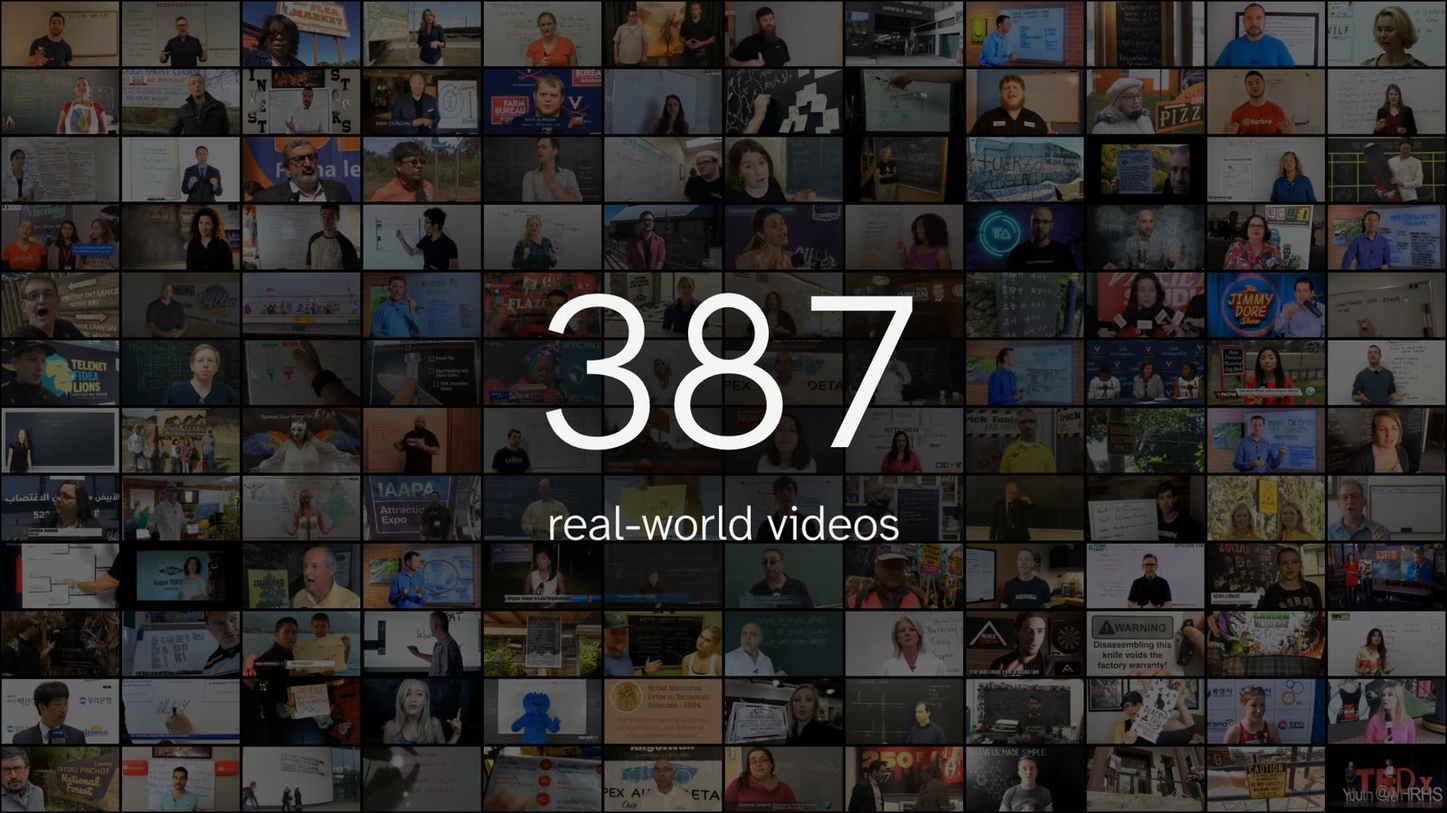
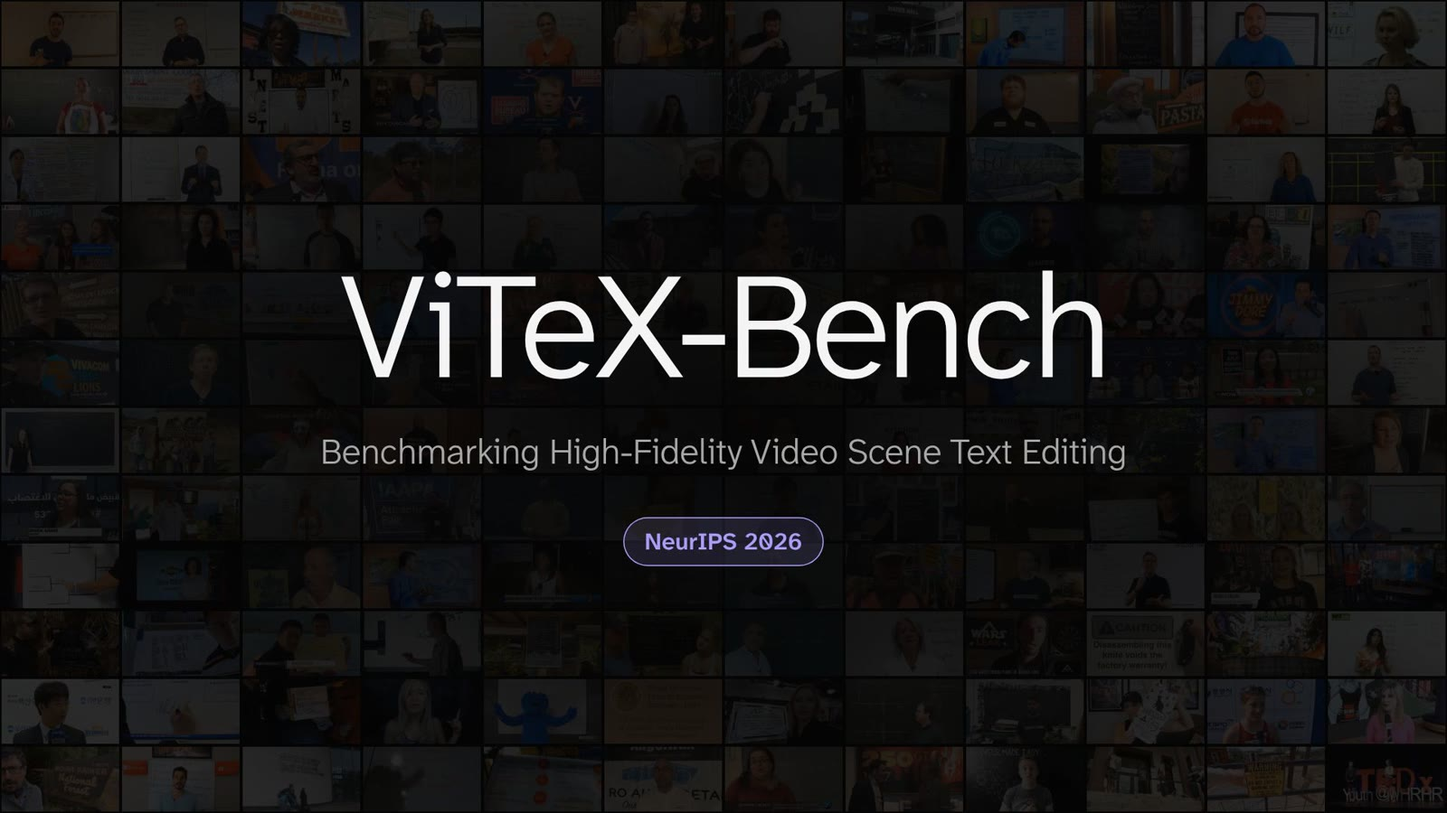
Title-card poster for the promo; share panel for US and Chinese platforms
- Promo poster is now the video's opening title card.
- Share button in the header (and in Cite) opens one panel: copy link;
  X, LinkedIn, Facebook, Reddit, Bluesky, Threads, WhatsApp, Telegram,
  Hacker News, Email; WeChat (QR code), Weibo, QQ, Douban via their
  share endpoints; Xiaohongshu, Zhihu, Bilibili copy a title and link.
  Popover on desktop, bottom sheet on phones; system share sheet where
  available. Monochrome Simple Icons (CC0) with accent hover.
- Social preview, DESIGN.md and README updated.

diff --git a/index.html b/index.html
@@ -40,7 +40,7 @@
   })();
 </script>
 <link rel="preload" href="static/fonts/atkinson-hyperlegible-next-latin.woff2" as="font" type="font/woff2" crossorigin>
-<link rel="stylesheet" href="static/css/site.css?v=8">
+<link rel="stylesheet" href="static/css/site.css?v=9">
 </head>
 <body>
 <a class="skip" href="#main">Skip to content</a>
@@ -56,12 +56,54 @@
       <a href="#cite">Cite</a>
     </nav>
     <a class="top__lb" href="https://vitex-bench.github.io/ViTeX-Bench-Leaderboard/">Leaderboard<svg class="icon" viewBox="0 0 24 24" aria-hidden="true"><path d="M8 16 16 8M9.5 8H16v6.5"/></svg></a>
+    <button class="icon-btn" id="share-btn" type="button" aria-label="Share this page" aria-haspopup="dialog" aria-expanded="false" aria-controls="share"><svg class="icon" viewBox="0 0 24 24" aria-hidden="true"><path d="M12 14.5v-11M8 7.5l4-4 4 4"/><path d="M8 10.5H6.5a1.5 1.5 0 0 0-1.5 1.5v7a1.5 1.5 0 0 0 1.5 1.5h11a1.5 1.5 0 0 0 1.5-1.5v-7a1.5 1.5 0 0 0-1.5-1.5H16"/></svg></button>
     <button class="icon-btn" id="theme-toggle" type="button" aria-label="Switch theme">
       <svg class="icon icon--sun" viewBox="0 0 24 24" aria-hidden="true"><circle cx="12" cy="12" r="4"/><path d="M12 2.5v2.5M12 19v2.5M2.5 12H5M19 12h2.5M5.3 5.3l1.8 1.8M16.9 16.9l1.8 1.8M5.3 18.7l1.8-1.8M16.9 7.1l1.8-1.8"/></svg>
       <svg class="icon icon--moon" viewBox="0 0 24 24" aria-hidden="true"><path d="M19.5 14.6A8 8 0 0 1 9.4 4.5a8 8 0 1 0 10.1 10.1Z"/></svg>
     </button>
   </div>
 </header>
+<div class="share-scrim" id="share-scrim" hidden></div>
+<div class="share" id="share" role="dialog" aria-labelledby="share-title" hidden>
+  <div class="share__head">
+    <p class="share__title" id="share-title">Share ViTeX-Bench</p>
+    <button class="share__close" type="button" data-share="close" aria-label="Close"><svg class="icon" viewBox="0 0 24 24" aria-hidden="true"><path d="M6 6l12 12M18 6 6 18"/></svg></button>
+  </div>
+  <div class="share__url">
+    <code id="share-url">vitex-bench.github.io</code>
+    <button class="btn btn--sm" type="button" data-share="copy"><svg class="icon" viewBox="0 0 24 24" aria-hidden="true"><rect x="8.5" y="8.5" width="11" height="11" rx="2"/><path d="M15.5 8.5v-2a2 2 0 0 0-2-2h-7a2 2 0 0 0-2 2v7a2 2 0 0 0 2 2h2"/></svg>Copy link</button>
+  </div>
+  <p class="share__group">Global</p>
+  <ul class="share__grid">
+      <li><a class="share__tile" href="https://x.com/intent/post?text=ViTeX-Bench%3A%20Benchmarking%20High-Fidelity%20Video%20Scene%20Text%20Editing%20%28NeurIPS%202026%2C%20Evaluations%20and%20Datasets%20Track%29&amp;url=https%3A%2F%2Fvitex-bench.github.io%2F" target="_blank" rel="noopener noreferrer"><svg viewBox="0 0 24 24" aria-hidden="true"><path d="M14.234 10.162 22.977 0h-2.072l-7.591 8.824L7.251 0H.258l9.168 13.343L.258 24H2.33l8.016-9.318L16.749 24h6.993zm-2.837 3.299-.929-1.329L3.076 1.56h3.182l5.965 8.532.929 1.329 7.754 11.09h-3.182z"/></svg><span>X</span></a></li>
+      <li><a class="share__tile" href="https://www.linkedin.com/sharing/share-offsite/?url=https%3A%2F%2Fvitex-bench.github.io%2F" target="_blank" rel="noopener noreferrer"><svg viewBox="0 0 24 24" aria-hidden="true"><path fill-rule="evenodd" d="M5 2h14a3 3 0 0 1 3 3v14a3 3 0 0 1-3 3H5a3 3 0 0 1-3-3V5a3 3 0 0 1 3-3Zm2.1 3.9a1.6 1.6 0 1 0 0 3.2 1.6 1.6 0 0 0 0-3.2ZM5.7 10v8.3h2.8V10H5.7Zm4.6 0v8.3h2.8v-4.4c0-1.2.5-2 1.5-2s1.4.8 1.4 1.9v4.5h2.8v-5c0-2.4-1.3-3.5-3.1-3.5-1.3 0-2.1.6-2.6 1.3V10h-2.8Z"/></svg><span>LinkedIn</span></a></li>
+      <li><a class="share__tile" href="https://www.facebook.com/sharer/sharer.php?u=https%3A%2F%2Fvitex-bench.github.io%2F" target="_blank" rel="noopener noreferrer"><svg viewBox="0 0 24 24" aria-hidden="true"><path d="M9.101 23.691v-7.98H6.627v-3.667h2.474v-1.58c0-4.085 1.848-5.978 5.858-5.978.401 0 .955.042 1.468.103a8.68 8.68 0 0 1 1.141.195v3.325a8.623 8.623 0 0 0-.653-.036 26.805 26.805 0 0 0-.733-.009c-.707 0-1.259.096-1.675.309a1.686 1.686 0 0 0-.679.622c-.258.42-.374.995-.374 1.752v1.297h3.919l-.386 2.103-.287 1.564h-3.246v8.245C19.396 23.238 24 18.179 24 12.044c0-6.627-5.373-12-12-12s-12 5.373-12 12c0 5.628 3.874 10.35 9.101 11.647Z"/></svg><span>Facebook</span></a></li>
+      <li><a class="share__tile" href="https://www.reddit.com/submit?url=https%3A%2F%2Fvitex-bench.github.io%2F&amp;title=ViTeX-Bench%3A%20Benchmarking%20High-Fidelity%20Video%20Scene%20Text%20Editing" target="_blank" rel="noopener noreferrer"><svg viewBox="0 0 24 24" aria-hidden="true"><path d="M12 0C5.373 0 0 5.373 0 12c0 3.314 1.343 6.314 3.515 8.485l-2.286 2.286C.775 23.225 1.097 24 1.738 24H12c6.627 0 12-5.373 12-12S18.627 0 12 0Zm4.388 3.199c1.104 0 1.999.895 1.999 1.999 0 1.105-.895 2-1.999 2-.946 0-1.739-.657-1.947-1.539v.002c-1.147.162-2.032 1.15-2.032 2.341v.007c1.776.067 3.4.567 4.686 1.363.473-.363 1.064-.58 1.707-.58 1.547 0 2.802 1.254 2.802 2.802 0 1.117-.655 2.081-1.601 2.531-.088 3.256-3.637 5.876-7.997 5.876-4.361 0-7.905-2.617-7.998-5.87-.954-.447-1.614-1.415-1.614-2.538 0-1.548 1.255-2.802 2.803-2.802.645 0 1.239.218 1.712.585 1.275-.79 2.881-1.291 4.64-1.365v-.01c0-1.663 1.263-3.034 2.88-3.207.188-.911.993-1.595 1.959-1.595Zm-8.085 8.376c-.784 0-1.459.78-1.506 1.797-.047 1.016.64 1.429 1.426 1.429.786 0 1.371-.369 1.418-1.385.047-1.017-.553-1.841-1.338-1.841Zm7.406 0c-.786 0-1.385.824-1.338 1.841.047 1.017.634 1.385 1.418 1.385.785 0 1.473-.413 1.426-1.429-.046-1.017-.721-1.797-1.506-1.797Zm-3.703 4.013c-.974 0-1.907.048-2.77.135-.147.015-.241.168-.183.305.483 1.154 1.622 1.964 2.953 1.964 1.33 0 2.47-.81 2.953-1.964.057-.137-.037-.29-.184-.305-.863-.087-1.795-.135-2.769-.135Z"/></svg><span>Reddit</span></a></li>
+      <li><a class="share__tile" href="https://bsky.app/intent/compose?text=ViTeX-Bench%3A%20Benchmarking%20High-Fidelity%20Video%20Scene%20Text%20Editing%20%28NeurIPS%202026%2C%20Evaluations%20and%20Datasets%20Track%29%20https%3A%2F%2Fvitex-bench.github.io%2F" target="_blank" rel="noopener noreferrer"><svg viewBox="0 0 24 24" aria-hidden="true"><path d="M5.202 2.857C7.954 4.922 10.913 9.11 12 11.358c1.087-2.247 4.046-6.436 6.798-8.501C20.783 1.366 24 .213 24 3.883c0 .732-.42 6.156-.667 7.037-.856 3.061-3.978 3.842-6.755 3.37 4.854.826 6.089 3.562 3.422 6.299-5.065 5.196-7.28-1.304-7.847-2.97-.104-.305-.152-.448-.153-.327 0-.121-.05.022-.153.327-.568 1.666-2.782 8.166-7.847 2.97-2.667-2.737-1.432-5.473 3.422-6.3-2.777.473-5.899-.308-6.755-3.369C.42 10.04 0 4.615 0 3.883c0-3.67 3.217-2.517 5.202-1.026"/></svg><span>Bluesky</span></a></li>
+      <li><a class="share__tile" href="https://www.threads.com/intent/post?text=ViTeX-Bench%3A%20Benchmarking%20High-Fidelity%20Video%20Scene%20Text%20Editing%20%28NeurIPS%202026%2C%20Evaluations%20and%20Datasets%20Track%29%20https%3A%2F%2Fvitex-bench.github.io%2F" target="_blank" rel="noopener noreferrer"><svg viewBox="0 0 24 24" aria-hidden="true"><path d="M18.263 11.097c-.03-3.486-1.92-5.586-5.111-5.586-2.13 0-3.922.963-4.863 2.499l2.062 1.438c.535-.843 1.272-1.543 2.628-1.543 1.528 0 2.318.85 2.544 2.431a15 15 0 0 0-2.236-.173c-4.125 0-6.068 1.867-6.068 4.336s1.943 3.99 4.804 3.99c3.139 0 5.013-2.115 5.781-4.735.798.361 1.348 1.204 1.348 2.47 0 3.387-3.907 5.232-7.22 5.232-4.885 0-8.077-3.207-8.077-8.424 0-6.392 4.223-10.487 9.9-10.487 3.808 0 5.69 1.671 6.97 3.914l2.108-1.475C21.44 2.078 18.331 0 13.663 0 6.227 0 1.168 5.277 1.168 12.934c0 7 4.953 11.066 10.856 11.066 4.878 0 9.809-2.846 9.809-7.716 0-2.545-1.46-4.231-3.569-5.187m-6.33 4.855c-1.077 0-2.026-.512-2.026-1.453 0-1.483 1.822-1.934 3.606-1.934.678 0 1.34.045 1.927.173-.422 1.927-1.671 3.215-3.508 3.214Z"/></svg><span>Threads</span></a></li>
+      <li><a class="share__tile" href="https://wa.me/?text=ViTeX-Bench%3A%20Benchmarking%20High-Fidelity%20Video%20Scene%20Text%20Editing%20%28NeurIPS%202026%2C%20Evaluations%20and%20Datasets%20Track%29%20https%3A%2F%2Fvitex-bench.github.io%2F" target="_blank" rel="noopener noreferrer"><svg viewBox="0 0 24 24" aria-hidden="true"><path d="M17.472 14.382c-.297-.149-1.758-.867-2.03-.967-.273-.099-.471-.148-.67.15-.197.297-.767.966-.94 1.164-.173.199-.347.223-.644.075-.297-.15-1.255-.463-2.39-1.475-.883-.788-1.48-1.761-1.653-2.059-.173-.297-.018-.458.13-.606.134-.133.298-.347.446-.52.149-.174.198-.298.298-.497.099-.198.05-.371-.025-.52-.075-.149-.669-1.612-.916-2.207-.242-.579-.487-.5-.669-.51-.173-.008-.371-.01-.57-.01-.198 0-.52.074-.792.372-.272.297-1.04 1.016-1.04 2.479 0 1.462 1.065 2.875 1.213 3.074.149.198 2.096 3.2 5.077 4.487.709.306 1.262.489 1.694.625.712.227 1.36.195 1.871.118.571-.085 1.758-.719 2.006-1.413.248-.694.248-1.289.173-1.413-.074-.124-.272-.198-.57-.347m-5.421 7.403h-.004a9.87 9.87 0 01-5.031-1.378l-.361-.214-3.741.982.998-3.648-.235-.374a9.86 9.86 0 01-1.51-5.26c.001-5.45 4.436-9.884 9.888-9.884 2.64 0 5.122 1.03 6.988 2.898a9.825 9.825 0 012.893 6.994c-.003 5.45-4.437 9.884-9.885 9.884m8.413-18.297A11.815 11.815 0 0012.05 0C5.495 0 .16 5.335.157 11.892c0 2.096.547 4.142 1.588 5.945L.057 24l6.305-1.654a11.882 11.882 0 005.683 1.448h.005c6.554 0 11.89-5.335 11.893-11.893a11.821 11.821 0 00-3.48-8.413Z"/></svg><span>WhatsApp</span></a></li>
+      <li><a class="share__tile" href="https://t.me/share/url?url=https%3A%2F%2Fvitex-bench.github.io%2F&amp;text=ViTeX-Bench%3A%20Benchmarking%20High-Fidelity%20Video%20Scene%20Text%20Editing%20%28NeurIPS%202026%2C%20Evaluations%20and%20Datasets%20Track%29" target="_blank" rel="noopener noreferrer"><svg viewBox="0 0 24 24" aria-hidden="true"><path d="M11.944 0A12 12 0 0 0 0 12a12 12 0 0 0 12 12 12 12 0 0 0 12-12A12 12 0 0 0 12 0a12 12 0 0 0-.056 0zm4.962 7.224c.1-.002.321.023.465.14a.506.506 0 0 1 .171.325c.016.093.036.306.02.472-.18 1.898-.962 6.502-1.36 8.627-.168.9-.499 1.201-.82 1.23-.696.065-1.225-.46-1.9-.902-1.056-.693-1.653-1.124-2.678-1.8-1.185-.78-.417-1.21.258-1.91.177-.184 3.247-2.977 3.307-3.23.007-.032.014-.15-.056-.212s-.174-.041-.249-.024c-.106.024-1.793 1.14-5.061 3.345-.48.33-.913.49-1.302.48-.428-.008-1.252-.241-1.865-.44-.752-.245-1.349-.374-1.297-.789.027-.216.325-.437.893-.663 3.498-1.524 5.83-2.529 6.998-3.014 3.332-1.386 4.025-1.627 4.476-1.635z"/></svg><span>Telegram</span></a></li>
+      <li><a class="share__tile" aria-label="Hacker News" href="https://news.ycombinator.com/submitlink?u=https%3A%2F%2Fvitex-bench.github.io%2F&amp;t=ViTeX-Bench%3A%20Benchmarking%20High-Fidelity%20Video%20Scene%20Text%20Editing" target="_blank" rel="noopener noreferrer"><svg viewBox="0 0 24 24" aria-hidden="true"><path d="M0 24V0h24v24H0zM6.951 5.896l4.112 7.708v5.064h1.583v-4.972l4.148-7.799h-1.749l-2.457 4.875c-.372.745-.688 1.434-.688 1.434s-.297-.708-.651-1.434L8.831 5.896h-1.88z"/></svg><span>HN</span></a></li>
+      <li><a class="share__tile" href="mailto:?subject=ViTeX-Bench%3A%20Benchmarking%20High-Fidelity%20Video%20Scene%20Text%20Editing&amp;body=ViTeX-Bench%3A%20Benchmarking%20High-Fidelity%20Video%20Scene%20Text%20Editing%20%28NeurIPS%202026%2C%20Evaluations%20and%20Datasets%20Track%29%0A%0Ahttps%3A%2F%2Fvitex-bench.github.io%2F" target="_blank" rel="noopener noreferrer"><svg viewBox="0 0 24 24" aria-hidden="true"><path fill-rule="evenodd" d="M4 4.5h16a2 2 0 0 1 2 2v11a2 2 0 0 1-2 2H4a2 2 0 0 1-2-2v-11a2 2 0 0 1 2-2Zm.6 2.2 7.4 5.4 7.4-5.4H4.6Zm15.4 2-7.4 5.4a1 1 0 0 1-1.2 0L4 8.7v8.8h16V8.7Z"/></svg><span>Email</span></a></li>
+  </ul>
+  <p class="share__group" lang="zh-Hans">中文平台</p>
+  <ul class="share__grid">
+      <li><button class="share__tile" type="button" data-share="wechat" data-app="微信" aria-expanded="false" aria-controls="share-qr" aria-label="微信 (WeChat)"><svg viewBox="0 0 24 24" aria-hidden="true"><path d="M8.691 2.188C3.891 2.188 0 5.476 0 9.53c0 2.212 1.17 4.203 3.002 5.55a.59.59 0 0 1 .213.665l-.39 1.48c-.019.07-.048.141-.048.213 0 .163.13.295.29.295a.326.326 0 0 0 .167-.054l1.903-1.114a.864.864 0 0 1 .717-.098 10.16 10.16 0 0 0 2.837.403c.276 0 .543-.027.811-.05-.857-2.578.157-4.972 1.932-6.446 1.703-1.415 3.882-1.98 5.853-1.838-.576-3.583-4.196-6.348-8.596-6.348zM5.785 5.991c.642 0 1.162.529 1.162 1.18a1.17 1.17 0 0 1-1.162 1.178A1.17 1.17 0 0 1 4.623 7.17c0-.651.52-1.18 1.162-1.18zm5.813 0c.642 0 1.162.529 1.162 1.18a1.17 1.17 0 0 1-1.162 1.178 1.17 1.17 0 0 1-1.162-1.178c0-.651.52-1.18 1.162-1.18zm5.34 2.867c-1.797-.052-3.746.512-5.28 1.786-1.72 1.428-2.687 3.72-1.78 6.22.942 2.453 3.666 4.229 6.884 4.229.826 0 1.622-.12 2.361-.336a.722.722 0 0 1 .598.082l1.584.926a.272.272 0 0 0 .14.047c.134 0 .24-.111.24-.247 0-.06-.023-.12-.038-.177l-.327-1.233a.582.582 0 0 1-.023-.156.49.49 0 0 1 .201-.398C23.024 18.48 24 16.82 24 14.98c0-3.21-2.931-5.837-6.656-6.088V8.89c-.135-.01-.27-.027-.407-.03zm-2.53 3.274c.535 0 .969.44.969.982a.976.976 0 0 1-.969.983.976.976 0 0 1-.969-.983c0-.542.434-.982.97-.982zm4.844 0c.535 0 .969.44.969.982a.976.976 0 0 1-.969.983.976.976 0 0 1-.969-.983c0-.542.434-.982.969-.982z"/></svg><span lang="zh-Hans">微信</span></button></li>
+      <li><a class="share__tile" href="https://service.weibo.com/share/share.php?url=https%3A%2F%2Fvitex-bench.github.io%2F&amp;title=ViTeX-Bench%EF%BC%9A%E9%AB%98%E4%BF%9D%E7%9C%9F%E8%A7%86%E9%A2%91%E5%9C%BA%E6%99%AF%E6%96%87%E5%AD%97%E7%BC%96%E8%BE%91%E5%9F%BA%E5%87%86%EF%BC%88NeurIPS%202026%20Evaluations%20and%20Datasets%20Track%EF%BC%89&amp;pic=https%3A%2F%2Fvitex-bench.github.io%2Fstatic%2Fimages%2Fsocial.jpg" target="_blank" rel="noopener noreferrer"><svg viewBox="0 0 24 24" aria-hidden="true"><path d="M10.098 20.323c-3.977.391-7.414-1.406-7.672-4.02-.259-2.609 2.759-5.047 6.74-5.441 3.979-.394 7.413 1.404 7.671 4.018.259 2.6-2.759 5.049-6.737 5.439l-.002.004zM9.05 17.219c-.384.616-1.208.884-1.829.602-.612-.279-.793-.991-.406-1.593.379-.595 1.176-.861 1.793-.601.622.263.82.972.442 1.592zm1.27-1.627c-.141.237-.449.353-.689.253-.236-.09-.313-.361-.177-.586.138-.227.436-.346.672-.24.239.09.315.36.18.601l.014-.028zm.176-2.719c-1.893-.493-4.033.45-4.857 2.118-.836 1.704-.026 3.591 1.886 4.21 1.983.64 4.318-.341 5.132-2.179.8-1.793-.201-3.642-2.161-4.149zm7.563-1.224c-.346-.105-.57-.18-.405-.615.375-.977.42-1.804 0-2.404-.781-1.112-2.915-1.053-5.364-.03 0 0-.766.331-.571-.271.376-1.217.315-2.224-.27-2.809-1.338-1.337-4.869.045-7.888 3.08C1.309 10.87 0 13.273 0 15.348c0 3.981 5.099 6.395 10.086 6.395 6.536 0 10.888-3.801 10.888-6.82 0-1.822-1.547-2.854-2.915-3.284v.01zm1.908-5.092c-.766-.856-1.908-1.187-2.96-.962-.436.09-.706.511-.616.932.09.42.511.691.932.602.511-.105 1.067.044 1.442.465.376.421.466.977.316 1.473-.136.406.089.856.51.992.405.119.857-.105.992-.512.33-1.021.12-2.178-.646-3.035l.03.045zm2.418-2.195c-1.576-1.757-3.905-2.419-6.054-1.968-.496.104-.812.587-.706 1.081.104.496.586.813 1.082.707 1.532-.331 3.185.15 4.296 1.383 1.112 1.246 1.429 2.943.947 4.416-.165.48.106 1.007.586 1.157.479.165.991-.104 1.157-.586.675-2.088.241-4.478-1.338-6.235l.03.045z"/></svg><span lang="zh-Hans">微博</span></a></li>
+      <li><a class="share__tile" href="https://connect.qq.com/widget/shareqq/index.html?url=https%3A%2F%2Fvitex-bench.github.io%2F&amp;title=ViTeX-Bench%3A%20Benchmarking%20High-Fidelity%20Video%20Scene%20Text%20Editing&amp;summary=ViTeX-Bench%EF%BC%9A%E9%AB%98%E4%BF%9D%E7%9C%9F%E8%A7%86%E9%A2%91%E5%9C%BA%E6%99%AF%E6%96%87%E5%AD%97%E7%BC%96%E8%BE%91%E5%9F%BA%E5%87%86%EF%BC%88NeurIPS%202026%20Evaluations%20and%20Datasets%20Track%EF%BC%89&amp;pics=https%3A%2F%2Fvitex-bench.github.io%2Fstatic%2Fimages%2Fsocial.jpg" target="_blank" rel="noopener noreferrer"><svg viewBox="0 0 24 24" aria-hidden="true"><path d="M21.395 15.035a40 40 0 0 0-.803-2.264l-1.079-2.695c.001-.032.014-.562.014-.836C19.526 4.632 17.351 0 12 0S4.474 4.632 4.474 9.241c0 .274.013.804.014.836l-1.08 2.695a39 39 0 0 0-.802 2.264c-1.021 3.283-.69 4.643-.438 4.673.54.065 2.103-2.472 2.103-2.472 0 1.469.756 3.387 2.394 4.771-.612.188-1.363.479-1.845.835-.434.32-.379.646-.301.778.343.578 5.883.369 7.482.189 1.6.18 7.14.389 7.483-.189.078-.132.132-.458-.301-.778-.483-.356-1.233-.646-1.846-.836 1.637-1.384 2.393-3.302 2.393-4.771 0 0 1.563 2.537 2.103 2.472.251-.03.581-1.39-.438-4.673"/></svg><span lang="zh-Hans">QQ</span></a></li>
+      <li><a class="share__tile" href="https://www.douban.com/share/service?href=https%3A%2F%2Fvitex-bench.github.io%2F&amp;name=ViTeX-Bench%3A%20Benchmarking%20High-Fidelity%20Video%20Scene%20Text%20Editing&amp;text=ViTeX-Bench%EF%BC%9A%E9%AB%98%E4%BF%9D%E7%9C%9F%E8%A7%86%E9%A2%91%E5%9C%BA%E6%99%AF%E6%96%87%E5%AD%97%E7%BC%96%E8%BE%91%E5%9F%BA%E5%87%86%EF%BC%88NeurIPS%202026%20Evaluations%20and%20Datasets%20Track%EF%BC%89&amp;image=https%3A%2F%2Fvitex-bench.github.io%2Fstatic%2Fimages%2Fsocial.jpg" target="_blank" rel="noopener noreferrer"><svg viewBox="0 0 24 24" aria-hidden="true"><path d="M.51 3.06h22.98V.755H.51V3.06Zm20.976 2.537v9.608h-2.137l-1.669 5.76H24v2.28H0v-2.28h6.32l-1.67-5.76H2.515V5.597h18.972Zm-5.066 9.608H7.58l1.67 5.76h5.501l1.67-5.76ZM18.367 7.9H5.634v5.025h12.733V7.9Z"/></svg><span lang="zh-Hans">豆瓣</span></a></li>
+      <li><button class="share__tile" type="button" data-share="copy-zh" data-app="小红书" aria-label="小红书 (Xiaohongshu: copy the link)"><svg class="share__xhs" viewBox="0 0 24 24" aria-hidden="true"><rect x="2.5" y="2.5" width="19" height="19" rx="5.5"/><text x="12" y="16.6" text-anchor="middle">书</text></svg><span lang="zh-Hans">小红书</span></button></li>
+      <li><button class="share__tile" type="button" data-share="copy-zh" data-app="知乎" aria-label="知乎 (Zhihu: copy the link)"><svg viewBox="0 0 24 24" aria-hidden="true"><path d="M5.721 0C2.251 0 0 2.25 0 5.719V18.28C0 21.751 2.252 24 5.721 24h12.56C21.751 24 24 21.75 24 18.281V5.72C24 2.249 21.75 0 18.281 0zm1.964 4.078c-.271.73-.5 1.434-.68 2.11h4.587c.545-.006.445 1.168.445 1.171H9.384a58.104 58.104 0 01-.112 3.797h2.712c.388.023.393 1.251.393 1.266H9.183a9.223 9.223 0 01-.408 2.102l.757-.604c.452.456 1.512 1.712 1.906 2.177.473.681.063 2.081.063 2.081l-2.794-3.382c-.653 2.518-1.845 3.607-1.845 3.607-.523.468-1.58.82-2.64.516 2.218-1.73 3.44-3.917 3.667-6.497H4.491c0-.015.197-1.243.806-1.266h2.71c.024-.32.086-3.254.086-3.797H6.598c-.136.406-.158.447-.268.753-.594 1.095-1.603 1.122-1.907 1.155.906-1.821 1.416-3.6 1.591-4.064.425-1.124 1.671-1.125 1.671-1.125zM13.078 6h6.377v11.33h-2.573l-2.184 1.373-.401-1.373h-1.219zm1.313 1.219v8.86h.623l.263.937 1.455-.938h1.456v-8.86z"/></svg><span lang="zh-Hans">知乎</span></button></li>
+      <li><button class="share__tile" type="button" data-share="copy-zh" data-app="哔哩哔哩" aria-label="哔哩哔哩 (Bilibili: copy the link)"><svg viewBox="0 0 24 24" aria-hidden="true"><path d="M17.813 4.653h.854c1.51.054 2.769.578 3.773 1.574 1.004.995 1.524 2.249 1.56 3.76v7.36c-.036 1.51-.556 2.769-1.56 3.773s-2.262 1.524-3.773 1.56H5.333c-1.51-.036-2.769-.556-3.773-1.56S.036 18.858 0 17.347v-7.36c.036-1.511.556-2.765 1.56-3.76 1.004-.996 2.262-1.52 3.773-1.574h.774l-1.174-1.12a1.234 1.234 0 0 1-.373-.906c0-.356.124-.658.373-.907l.027-.027c.267-.249.573-.373.92-.373.347 0 .653.124.92.373L9.653 4.44c.071.071.134.142.187.213h4.267a.836.836 0 0 1 .16-.213l2.853-2.747c.267-.249.573-.373.92-.373.347 0 .662.151.929.4.267.249.391.551.391.907 0 .355-.124.657-.373.906zM5.333 7.24c-.746.018-1.373.276-1.88.773-.506.498-.769 1.13-.786 1.894v7.52c.017.764.28 1.395.786 1.893.507.498 1.134.756 1.88.773h13.334c.746-.017 1.373-.275 1.88-.773.506-.498.769-1.129.786-1.893v-7.52c-.017-.765-.28-1.396-.786-1.894-.507-.497-1.134-.755-1.88-.773zM8 11.107c.373 0 .684.124.933.373.25.249.383.569.4.96v1.173c-.017.391-.15.711-.4.96-.249.25-.56.374-.933.374s-.684-.125-.933-.374c-.25-.249-.383-.569-.4-.96V12.44c0-.373.129-.689.386-.947.258-.257.574-.386.947-.386zm8 0c.373 0 .684.124.933.373.25.249.383.569.4.96v1.173c-.017.391-.15.711-.4.96-.249.25-.56.374-.933.374s-.684-.125-.933-.374c-.25-.249-.383-.569-.4-.96V12.44c.017-.391.15-.711.4-.96.249-.249.56-.373.933-.373Z"/></svg><span lang="zh-Hans">哔哩哔哩</span></button></li>
+  </ul>
+  <div class="share__qr" id="share-qr" hidden>
+    <div class="share__qrplate"><svg class="share__qrsvg" role="img" aria-label="QR code for https://vitex-bench.github.io/" xmlns="http://www.w3.org/2000/svg" viewBox="0 0 33 33" shape-rendering="crispEdges"><path fill="#ffffff" d="M0 0h33v33H0z"/><path stroke="#000000" d="M2 2.5h7m3 0h1m1 0h4m3 0h2m1 0h7M2 3.5h1m5 0h1m2 0h3m1 0h4m3 0h1m1 0h1m5 0h1M2 4.5h1m1 0h3m1 0h1m1 0h2m1 0h1m1 0h1m1 0h1m2 0h1m3 0h1m1 0h3m1 0h1M2 5.5h1m1 0h3m1 0h1m1 0h1m5 0h2m1 0h1m1 0h1m2 0h1m1 0h3m1 0h1M2 6.5h1m1 0h3m1 0h1m1 0h3m1 0h1m2 0h6m1 0h1m1 0h3m1 0h1M2 7.5h1m5 0h1m1 0h1m2 0h1m6 0h1m1 0h1m1 0h1m5 0h1M2 8.5h7m1 0h1m1 0h1m1 0h1m1 0h1m1 0h1m1 0h1m1 0h1m1 0h7M10 9.5h1m3 0h1m1 0h1m1 0h1m1 0h3M2 10.5h1m1 0h5m2 0h1m1 0h2m3 0h2m4 0h5M2 11.5h2m2 0h1m2 0h1m5 0h3m3 0h2m1 0h3m3 0h1M4 12.5h2m1 0h2m2 0h8m4 0h4M6 13.5h1m2 0h1m1 0h1m1 0h1m1 0h1m1 0h1m3 0h3m1 0h3m1 0h1M3 14.5h1m1 0h4m2 0h1m1 0h1m2 0h2m1 0h1m1 0h1m1 0h1m3 0h2M2 15.5h4m1 0h1m1 0h6m2 0h2m1 0h2m1 0h4m3 0h1M3 16.5h1m1 0h4m1 0h1m1 0h1m6 0h2m3 0h1m1 0h3M3 17.5h2m4 0h2m1 0h2m2 0h1m1 0h1m1 0h1m4 0h2m2 0h1M2 18.5h1m3 0h1m1 0h1m1 0h3m1 0h1m3 0h4m3 0h1m1 0h2M2 19.5h2m1 0h1m3 0h1m1 0h1m1 0h5m1 0h8m1 0h1m1 0h1M2 20.5h1m1 0h3m1 0h1m2 0h1m2 0h6m2 0h2m1 0h2m1 0h1M2 21.5h1m3 0h1m3 0h6m1 0h1m2 0h2m1 0h2m4 0h1M2 22.5h1m1 0h1m1 0h3m3 0h1m1 0h1m1 0h2m1 0h1m2 0h5m1 0h3M10 23.5h1m2 0h2m2 0h4m1 0h1m3 0h5M2 24.5h7m3 0h1m1 0h1m5 0h3m1 0h1m1 0h3M2 25.5h1m5 0h1m1 0h5m1 0h1m1 0h1m2 0h2m3 0h1m2 0h2M2 26.5h1m1 0h3m1 0h1m1 0h2m7 0h1m2 0h5m1 0h1m1 0h1M2 27.5h1m1 0h3m1 0h1m1 0h1m4 0h3m1 0h2m1 0h1m4 0h2M2 28.5h1m1 0h3m1 0h1m1 0h2m1 0h1m1 0h1m1 0h3m1 0h9M2 29.5h1m5 0h1m2 0h1m1 0h2m1 0h1m1 0h1m3 0h1m4 0h1m1 0h1M2 30.5h7m1 0h1m1 0h1m1 0h1m1 0h1m2 0h3m3 0h4"/></svg></div>
+    <p lang="zh-Hans">微信扫一扫打开本页，再点右上角 <b>···</b> 分享给朋友或朋友圈。</p>
+  </div>
+  <p class="share__hint" lang="zh-Hans">小红书、知乎、哔哩哔哩没有网页分享接口，点击会复制标题和链接，打开 App 粘贴即可。</p>
+  <button class="share__native btn btn--ghost btn--sm" type="button" data-share="native" hidden><svg class="icon" viewBox="0 0 24 24" aria-hidden="true"><path d="M12 14.5v-11M8 7.5l4-4 4 4"/><path d="M8 10.5H6.5a1.5 1.5 0 0 0-1.5 1.5v7a1.5 1.5 0 0 0 1.5 1.5h11a1.5 1.5 0 0 0 1.5-1.5v-7a1.5 1.5 0 0 0-1.5-1.5H16"/></svg>More apps</button>
+  <p class="share__toast" id="share-toast" role="status" aria-live="polite"></p>
+</div>
 
 <main id="main">
   <div class="fold">
@@ -384,6 +426,7 @@
 <pre id="bib"><code><span class="bl">@inproceedings{chen2026vitexbench,</span><span class="bl">  title     = {ViTeX-Bench: Benchmarking High-Fidelity Video Scene Text Editing},</span><span class="bl">  author    = {Chen, Xinghao and Gao, Xiangbo and Yu, Jiongze and Wu, Yuheng and Tu, Zhengzhong},</span><span class="bl">  booktitle = {Advances in Neural Information Processing Systems (NeurIPS), Track on Evaluations and Datasets},</span><span class="bl">  year      = {2026},</span><span class="bl">  url       = <span class="nw">{https://vitex-bench.github.io/}</span></span><span class="bl">}</span></code></pre>
         <button class="btn btn--ghost btn--sm" type="button" id="copy-bib">
           <svg class="icon" viewBox="0 0 24 24" aria-hidden="true"><rect x="8.5" y="8.5" width="11" height="11" rx="2"/><path d="M15.5 8.5v-2a2 2 0 0 0-2-2h-7a2 2 0 0 0-2 2v7a2 2 0 0 0 2 2h2"/></svg><span>Copy BibTeX</span></button>
+        <button class="btn btn--ghost btn--sm" type="button" data-open-share><svg class="icon" viewBox="0 0 24 24" aria-hidden="true"><path d="M12 14.5v-11M8 7.5l4-4 4 4"/><path d="M8 10.5H6.5a1.5 1.5 0 0 0-1.5 1.5v7a1.5 1.5 0 0 0 1.5 1.5h11a1.5 1.5 0 0 0 1.5-1.5v-7a1.5 1.5 0 0 0-1.5-1.5H16"/></svg><span>Share this page</span></button>
         <p class="cite__contact">Contact: <a href="https://cxh42.github.io/">Xinghao Chen</a> (cxh4242@gmail.com), Zhengzhong Tu</p>
       </div>
     </div>
@@ -403,6 +446,6 @@
   </div>
 </footer>
 
-<script src="static/js/site.js?v=8"></script>
+<script src="static/js/site.js?v=9"></script>
 </body>
 </html>

diff --git a/static/css/site.css b/static/css/site.css
@@ -109,10 +109,54 @@ html { scrollbar-color: var(--line-2) transparent; }
 .nav a:hover, .top__lb:hover { color: var(--fg); }
 .top__lb { display: inline-flex; align-items: center; gap: 4px; padding-left: 26px; border-left: 1px solid var(--line); height: 22px; }
 .top__lb .icon { width: 14px; height: 14px; }
+.top__inner .icon-btn + .icon-btn { margin-left: -18px; }
 .icon-btn { width: 36px; height: 36px; display: grid; place-items: center; background: none; border: 1px solid var(--line-2); border-radius: 50%; color: var(--fg-2); cursor: pointer; transition: color 200ms, border-color 200ms; flex: none; }
 .icon-btn:hover { color: var(--fg); border-color: var(--fg-3); }
 .icon-btn .icon { width: 16px; height: 16px; }
 :root[data-theme="dark"] .icon--moon, :root[data-theme="light"] .icon--sun { display: none; }
+
+/* ---------- Share panel ---------- */
+.share-scrim { position: fixed; inset: 0; z-index: 29; background: transparent; }
+.share-scrim[hidden] { display: none; }
+.share {
+  position: fixed; z-index: 30; top: 70px; right: max(var(--gutter), calc((100vw - var(--max)) / 2 + var(--gutter)));
+  width: min(440px, calc(100vw - 2 * var(--gutter))); max-height: calc(100svh - 86px); overflow-y: auto; overscroll-behavior: contain;
+  background: color-mix(in srgb, var(--bg-2) 96%, transparent); backdrop-filter: blur(14px); -webkit-backdrop-filter: blur(14px);
+  border: 1px solid var(--line-2); border-radius: 16px; padding: 16px 18px 14px; animation: share-in 280ms var(--ease);
+}
+.share[hidden] { display: none; }
+@keyframes share-in { from { opacity: 0; transform: translateY(-6px); } }
+@keyframes share-up { from { transform: translateY(24px); opacity: 0; } }
+.share__head { display: flex; align-items: center; justify-content: space-between; margin-bottom: 12px; }
+.share__title { margin: 0; font-size: 16px; font-weight: 500; }
+.share__close { width: 32px; height: 32px; display: grid; place-items: center; border: 0; border-radius: 50%; background: none; color: var(--fg-3); cursor: pointer; }
+.share__close:hover { color: var(--fg); background: var(--hover); }
+.share__close .icon { width: 16px; height: 16px; }
+.share__url { display: flex; align-items: center; gap: 10px; padding: 5px 5px 5px 14px; border: 1px solid var(--line); border-radius: 999px; margin-bottom: 18px; }
+.share__url code { flex: 1; min-width: 0; border: 0; padding: 0; font-size: 13px; color: var(--fg-2); overflow: hidden; text-overflow: ellipsis; white-space: nowrap; }
+.share__group { margin: 0 0 6px; font-size: 12.5px; color: var(--fg-3); }
+.share__grid { list-style: none; margin: 0 0 14px; padding: 0; display: grid; grid-template-columns: repeat(5, minmax(0, 1fr)); gap: 2px 4px; }
+.share__tile {
+  display: flex; flex-direction: column; align-items: center; gap: 6px; width: 100%; padding: 8px 2px 6px; border: 0; border-radius: 10px;
+  background: none; color: var(--fg-2); text-decoration: none; font: 500 11.5px/1.2 var(--sans); cursor: pointer; text-align: center; transition: color 200ms;
+}
+.share__tile svg { box-sizing: content-box; width: 19px; height: 19px; padding: 11px; border-radius: 50%; border: 1px solid var(--line-2); fill: var(--fg); transition: border-color 200ms, fill 200ms, background-color 200ms; }
+.share__tile span { max-width: 100%; overflow: hidden; text-overflow: ellipsis; white-space: nowrap; }
+.share__xhs text { font: 700 12px/1 var(--sans); fill: var(--bg-2); }
+.share__tile:hover .share__xhs text { fill: var(--bg-2); }
+.share__tile:hover { color: var(--fg); }
+.share__tile:hover svg { border-color: var(--accent); fill: var(--accent); }
+.share__tile[aria-expanded="true"] svg { background: var(--accent); border-color: var(--accent); fill: var(--accent-ink); }
+.share__qr { display: flex; align-items: center; gap: 14px; margin: -4px 0 14px; padding: 12px; border: 1px solid var(--line); border-radius: 12px; }
+.share__qr[hidden] { display: none; }
+.share__qrplate { flex: none; width: 128px; padding: 6px; border-radius: 8px; background: #fff; }
+.share__qrsvg { display: block; width: 100%; height: auto; }
+.share__qr p { margin: 0; font-size: 13.5px; color: var(--fg-2); }
+.share__qr b { color: var(--fg); font-weight: 600; }
+.share__hint { margin: 0 0 12px; font-size: 12px; line-height: 1.5; color: var(--fg-3); }
+.share__native[hidden] { display: none; }
+.share__toast { margin: 0; font-size: 13px; color: var(--accent); }
+.share__toast:not(:empty) { margin-top: 10px; }
 
 /* ---------- Buttons, pills ---------- */
 .btn {
@@ -514,6 +558,9 @@ html { scrollbar-color: var(--line-2) transparent; }
   .promo__disc { width: 42px; box-shadow: 0 0 0 6px color-mix(in srgb, var(--accent) 22%, transparent); }
   .promo__label { font-size: 13.5px; gap: 3px; padding-bottom: 1px; }
   .promo__time { font-size: 11.5px; }
+  .share-scrim { background: rgba(0, 0, 0, 0.45); }
+  .share { top: auto; bottom: 0; left: 0; right: 0; width: auto; max-height: 86svh; border-radius: 20px 20px 0 0; border-bottom: 0; padding: 14px 16px calc(16px + env(safe-area-inset-bottom)); animation-name: share-up; }
+  .share__grid { grid-template-columns: repeat(5, minmax(0, 1fr)); }
   .gcell span { left: 4px; top: 4px; font-size: 10px; padding: 3px 6px; max-width: calc(100% - 8px); }
   .pick__row { gap: 14px; }
 }

diff --git a/static/js/site.js b/static/js/site.js
@@ -272,6 +272,61 @@
   window.addEventListener('resize', fitWord);
 
   // =====================================================================
+  // Share panel: platform links are plain hrefs in the markup; this adds
+  // open/close, copy, the WeChat QR, and the system share sheet.
+  // =====================================================================
+  (function () {
+    var panel = $('share'), btn = $('share-btn'), scrim = $('share-scrim'), toast = $('share-toast'), qr = $('share-qr');
+    if (!panel || !btn) return;
+    var URL = 'https://vitex-bench.github.io/';
+    var TITLE = 'ViTeX-Bench: Benchmarking High-Fidelity Video Scene Text Editing';
+    var ZH = 'ViTeX-Bench：高保真视频场景文字编辑基准（NeurIPS 2026 Evaluations and Datasets Track）';
+    var opener = null, timer = 0;
+    function say(msg) { toast.textContent = msg; clearTimeout(timer); timer = setTimeout(function () { toast.textContent = ''; }, 3600); }
+    function copy(text, msg) {
+      function fallback() {
+        var ta = document.createElement('textarea'); ta.value = text; ta.setAttribute('readonly', ''); ta.style.position = 'fixed'; ta.style.opacity = '0';
+        document.body.appendChild(ta); ta.select();
+        var ok = false; try { ok = document.execCommand('copy'); } catch (e) {}
+        document.body.removeChild(ta);
+        say(ok ? msg : 'Copy failed. Select the address above and copy it.');
+      }
+      if (navigator.clipboard && navigator.clipboard.writeText) navigator.clipboard.writeText(text).then(function () { say(msg); }, fallback);
+      else fallback();
+    }
+    function wechat(show) {
+      var t = panel.querySelector('[data-share="wechat"]');
+      if (show == null) show = qr.hidden;
+      qr.hidden = !show; t.setAttribute('aria-expanded', show ? 'true' : 'false');
+    }
+    function open(from) {
+      opener = from || btn;
+      panel.hidden = false; scrim.hidden = false; btn.setAttribute('aria-expanded', 'true');
+      panel.querySelector('[data-share="copy"]').focus();
+    }
+    function close() {
+      if (panel.hidden) return;
+      panel.hidden = true; scrim.hidden = true; btn.setAttribute('aria-expanded', 'false');
+      wechat(false); toast.textContent = '';
+      if (opener) opener.focus();
+    }
+    btn.addEventListener('click', function () { if (panel.hidden) open(btn); else close(); });
+    document.querySelectorAll('[data-open-share]').forEach(function (b) { b.addEventListener('click', function () { open(b); }); });
+    scrim.addEventListener('click', close);
+    document.addEventListener('keydown', function (e) { if (e.key === 'Escape') close(); });
+    panel.addEventListener('click', function (e) {
+      var b = e.target.closest('[data-share]'); if (!b) return;
+      var act = b.getAttribute('data-share');
+      if (act === 'close') close();
+      else if (act === 'copy') copy(URL, 'Link copied.');
+      else if (act === 'wechat') wechat();
+      else if (act === 'copy-zh') copy(ZH + ' ' + URL, '已复制标题和链接，打开' + b.getAttribute('data-app') + '粘贴即可。');
+      else if (act === 'native' && navigator.share) navigator.share({ title: TITLE, text: TITLE, url: URL }).catch(function () {});
+    });
+    if (navigator.share) panel.querySelector('[data-share="native"]').hidden = false;
+  })();
+
+  // =====================================================================
   // Overview video: poster + play button; plays with sound on request
   // =====================================================================
   (function () {

diff --git a/DESIGN.md b/DESIGN.md
@@ -353,7 +353,9 @@ The page uses the leaderboard's 1200px column, `clamp(20px, 5vw, 56px)` gutter a
 
 **First viewport.** Title-first and left-aligned, then the overview video. On desktops at least 1101px wide and 560px tall, the title block and the video together fill exactly one screen (`clamp(560px, 100svh − 60px, 1000px)`). The video takes the height that remains and is sized `min(100cqw, 100cqh × 16/9)` of it (container units), centred, so it is never cut off at the fold. Narrower or shorter screens scroll normally. The title spans the full column on one or two balanced lines (`High-Fidelity` never breaks), then a `1fr : 280px` grid: authors (18px), affiliations, the venue badge row and a wrapping row of four equal ghost buttons on the left, and the lab credit on the right behind a strong-hairline left rule, bottom-aligned.
 
-**Overview video.** A 16:9 frame with a 14px radius and a strong-hairline ring on black, over a soft blur of its own poster. Before playing it shows the poster (the 387-videos wall at 20.6 s) with a bottom-left play control: an accent disc (72px desktop, 42px phone) with a halo ring, "Watch the overview" and a mono "1:06 · with sound" on a bottom scrim. Clicking plays with sound and native controls; the overlay fades out and returns as "Watch again" at the end. Phones (≤800px) load the 720p file, larger screens the 1080p original; nothing loads before the click.
+**Overview video.** A 16:9 frame with a 14px radius and a strong-hairline ring on black, over a soft blur of its own poster. Before playing it shows the poster (the promo's title card at 2 s) with a bottom-left play control: an accent disc (72px desktop, 42px phone) with a halo ring, "Watch the overview" and a mono "1:06 · with sound" on a bottom scrim. Clicking plays with sound and native controls; the overlay fades out and returns as "Watch again" at the end. Phones (≤800px) load the 720p file, larger screens the 1080p original; nothing loads before the click.
+
+**Share panel.** A circular share icon button sits beside the theme toggle in the header, and a ghost "Share this page" pill sits beside Copy BibTeX. Both open one panel: a 440px popover under the header on desktop, a bottom sheet with a dim scrim on phones (≤600px). It holds the URL with a Copy link pill, then two five-column grids of 42px hairline icon discs with labels: Global (X, LinkedIn, Facebook, Reddit, Bluesky, Threads, WhatsApp, Telegram, Hacker News, Email) and 中文平台 (微信, 微博, QQ, 豆瓣, 小红书, 知乎, 哔哩哔哩). Icons are monochrome Simple Icons paths (CC0) in the foreground; hover turns the disc border and glyph to the accent. Every web-share platform is a plain link to its official share endpoint. WeChat reveals an inline QR code (white plate) with a scan-then-share instruction; Xiaohongshu, Zhihu and Bilibili, which have no web share endpoint, copy a Chinese title plus the URL and say so. A system "More apps" button appears only where the Web Share API exists. Escape or the scrim closes it and returns focus to the opener.
 
 **Glyph stage.** Opens the first section under a standard section head. A 5/12 : 7/12 grid with the display word bottom-left, the scene chips and caption under it, and the wipe on the right spanning both rows, over the full-bleed coloured ambient.
 

diff --git a/README.md b/README.md
@@ -8,7 +8,7 @@ Preview locally with `python3 -m http.server` and open http://localhost:8000/.
 
 ## Media
 
-- `static/videos/promo/ViTeX-Bench_promo_1080p.mp4`: the 66 s overview video, copied unchanged from the promo project; `ViTeX-Bench_promo_720p.mp4` is a smaller encode served to phones (`ffmpeg -i ..._1080p.mp4 -vf scale=1280:-2 -c:v libx264 -crf 23 -preset slow -c:a copy -movflags +faststart ..._720p.mp4`). Poster: `static/images/posters/promo.jpg` (frame at 20.6 s).
+- `static/videos/promo/ViTeX-Bench_promo_1080p.mp4`: the 66 s overview video, copied unchanged from the promo project; `ViTeX-Bench_promo_720p.mp4` is a smaller encode served to phones (`ffmpeg -i ..._1080p.mp4 -vf scale=1280:-2 -c:v libx264 -crf 23 -preset slow -c:a copy -movflags +faststart ..._720p.mp4`). Poster: `static/images/posters/promo.jpg` (the title card at 2 s).
 - `static/videos/showcase_v2/<clip>.mp4`: 4×3 composite grids (source and every method) rendered by `scripts/render_showcase_grid.py`. The page crops individual methods from these on a canvas, so one decode drives the comparator and the grid view.
 - `static/videos/hero/<clip>.mp4`: the source cell stacked over the ViTeX-Edit-14B cell (430×484), cut from the composites for the glyph stage in the "Change the word, keep the scene" section:
 
@@ -23,3 +23,8 @@ Preview locally with `python3 -m http.server` and open http://localhost:8000/.
 - `static/images/social.jpg`: the link preview, a capture of the first viewport.
 
 To add a scene, render its composite, cut the hero clip and posters as above, and add an entry to `SCENES` in `static/js/site.js` (`x` is the horizontal position of the text in the frame, from 0 to 1, where the big word flips).
+
+## Sharing
+
+The share panel (header icon, and "Share this page" in Cite) links to each platform's official web share endpoint; the links are plain `href`s in `index.html`, so they work without JavaScript. WeChat shows a QR code of the page URL (generated once with the `qrcode` npm package and inlined as SVG). Xiaohongshu, Zhihu and Bilibili have no web share endpoint, so their buttons copy a Chinese title and the URL. Brand icons are from [Simple Icons](https://simpleicons.org/) (CC0); LinkedIn and Email are drawn by hand. If the page URL changes, regenerate the QR code and update the share URLs.
+
